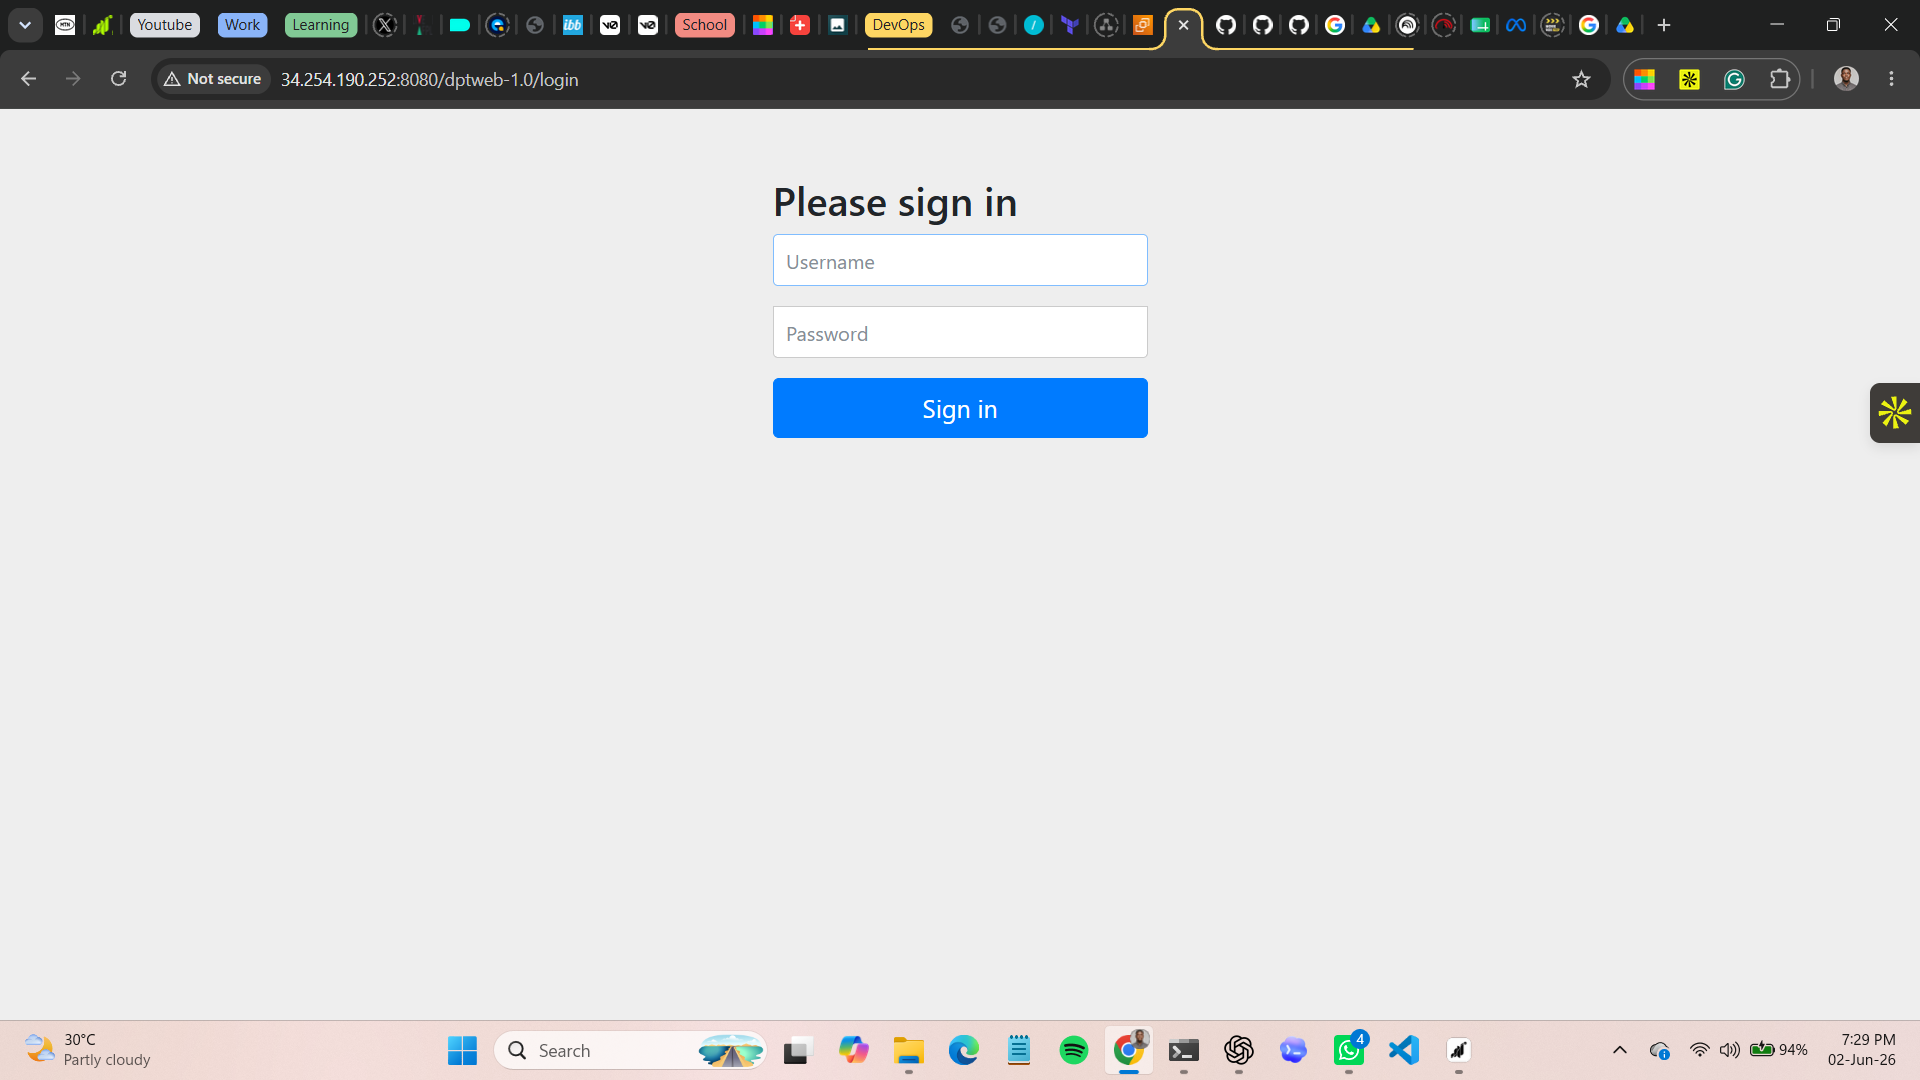
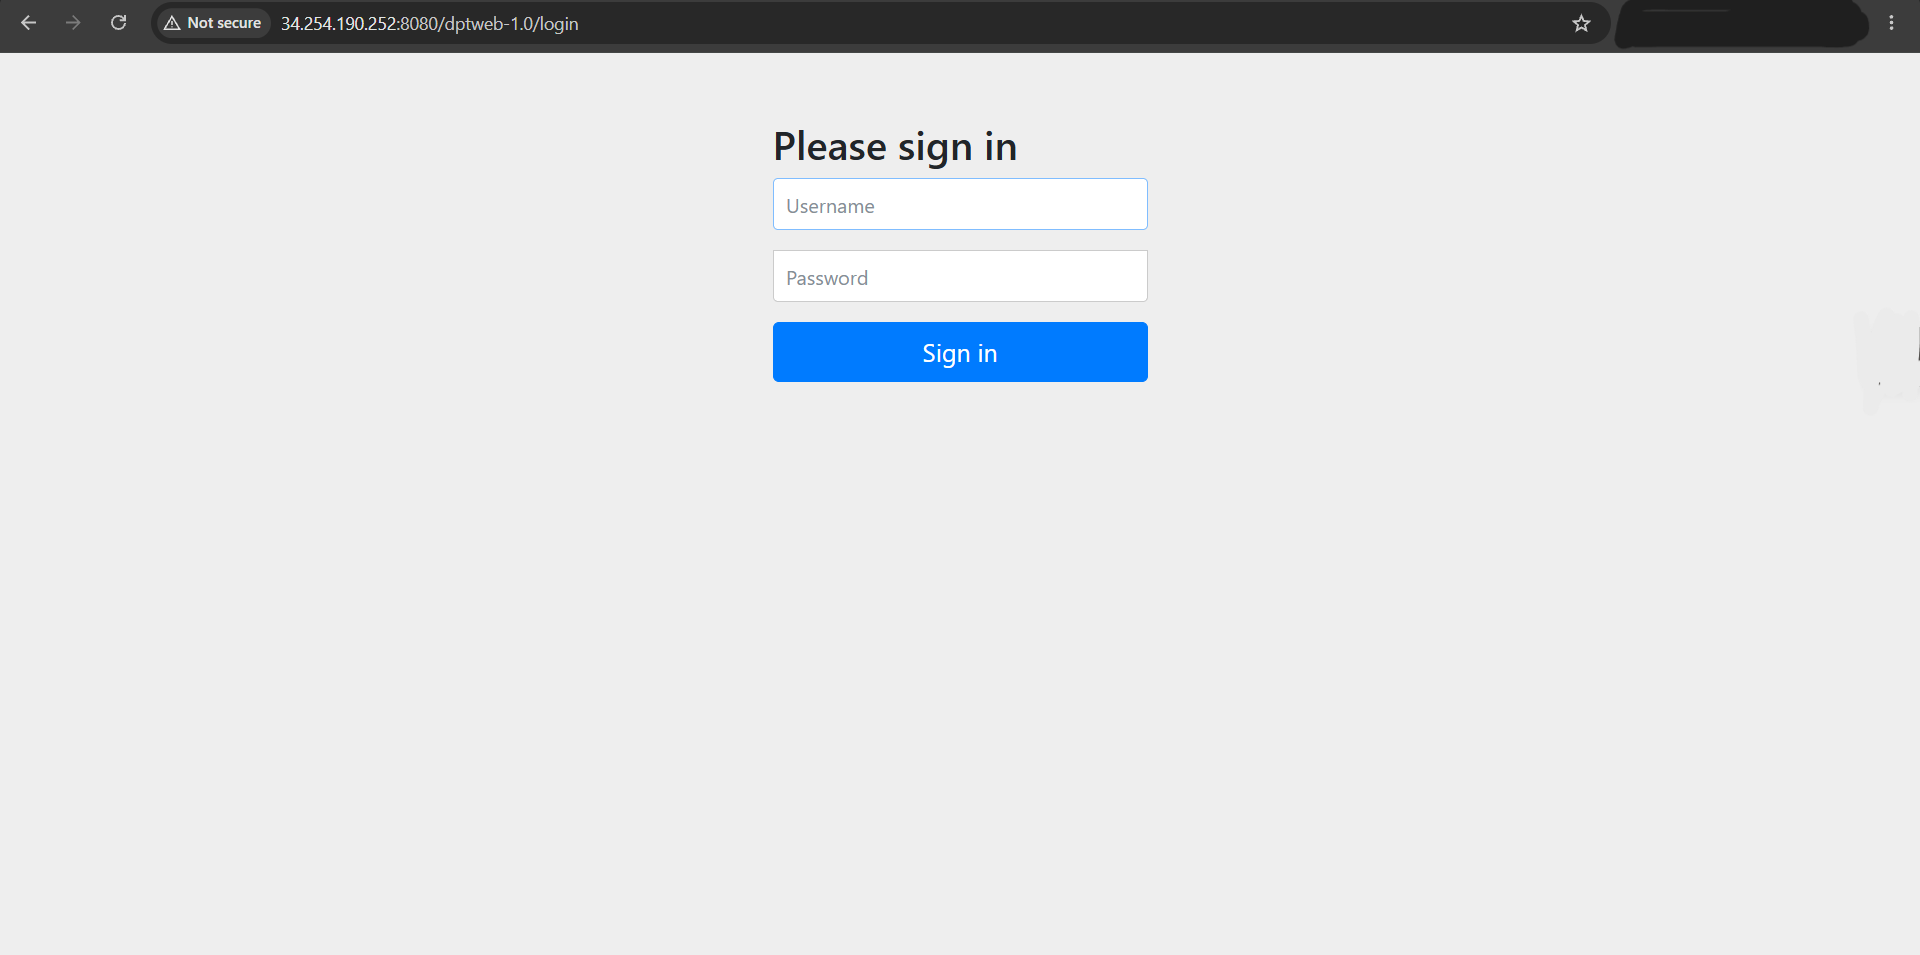
Improve deployment documentation and update screenshots

diff --git a/README.md b/README.md
@@ -277,9 +277,16 @@ This demonstrates an end-to-end Java application delivery workflow using the pro
 
 ---
 
-### Application Build Process
+### Application Source Code &  Build Process
 
-The Java application source code was cloned onto the Maven Build Server and packaged into a deployable WAR artifact using Maven.
+To validate the provisioned infrastructure, a Java Spring Boot login application was used as the deployment target.
+
+The application source code was cloned from a separate repository onto the Maven Build Server and packaged into a deployable WAR artifact using Maven.                    
+
+Clone the application:
+
+```bash
+git clone https://github.com/loreon-learning-c001/devops-project-01.git
 
 Navigate to the application directory:
 